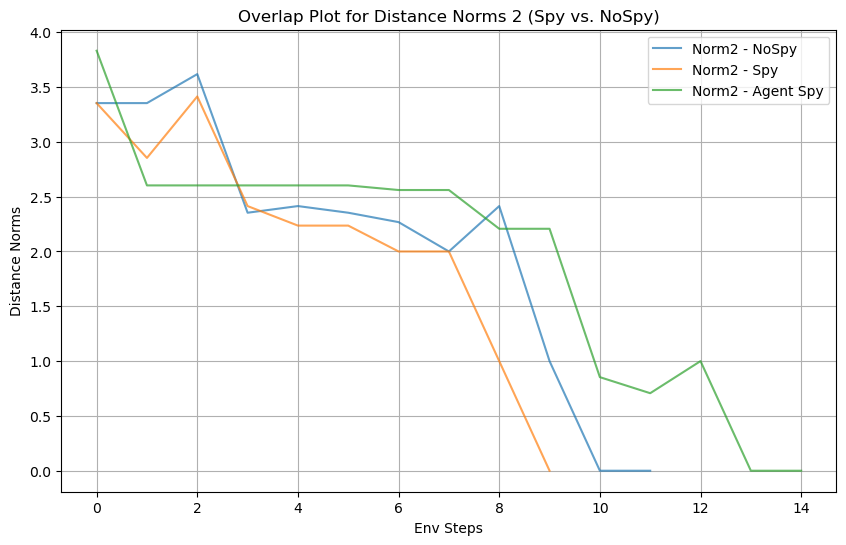
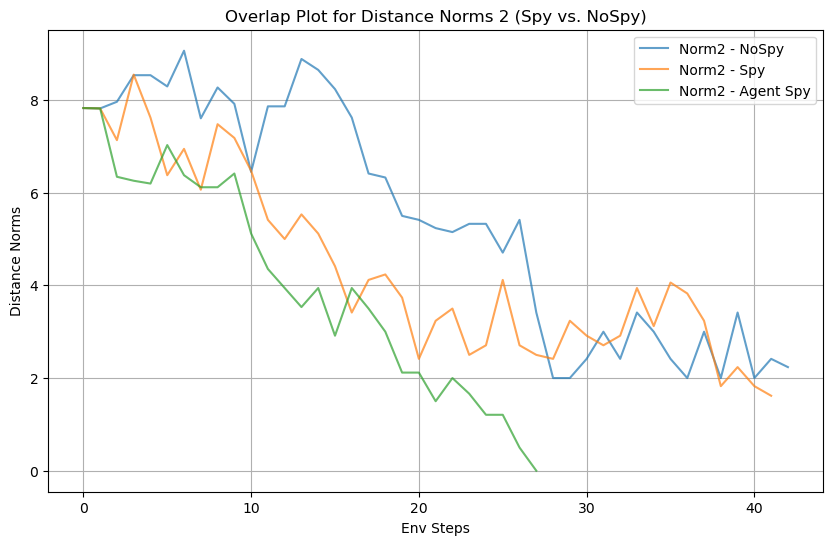
Deployed a9e6b54 with MkDocs version: 1.6.1

diff --git a/evaluation/results/index.html b/evaluation/results/index.html
@@ -1130,7 +1130,7 @@
 <li><code>Norm1</code>: How many actual step is needed to move the box to the targets (Manhatten distance), for each color type we pick the smalles norm1 distance as the easiest target for the box to reach.</li>
 <li><code>Norm2</code>:  How many "distance" (abstract idea) the boxes  are to each targets, the value is an arbitrary value for comparison purpose, which is why we averages against each color.</li>
 </ul>
-<p>Then for each trail, we can see that these two notion of distance changes over different environmental steps, all teh way until convergence (we only take convergence trails). When <code>slope</code> tells us about the convergence speed, we use area under the curve (<code>AUC</code>) as the <code>Energy</code> or all the steps needed for a system to converge. Here is a demo of how such graph would look like for our three system with <code>seed=0</code> trial.</p>
+<p>Then for each trail, we can see that these two notion of distance changes over different environmental steps, all teh way until convergence (we only take convergence trails). When <code>slope</code> tells us about the convergence speed, we use area under the curve (<code>AUC</code>) as the <code>Energy</code> or all the steps needed for a system to converge. Here is a demo of how such graph would look like for our three system with <code>seed=3</code> trial.</p>
 <div style="display: flex; justify-content: space-around;">
     <!-- First Graph -->
     <div style="flex: 1; margin-right: 10px;">
